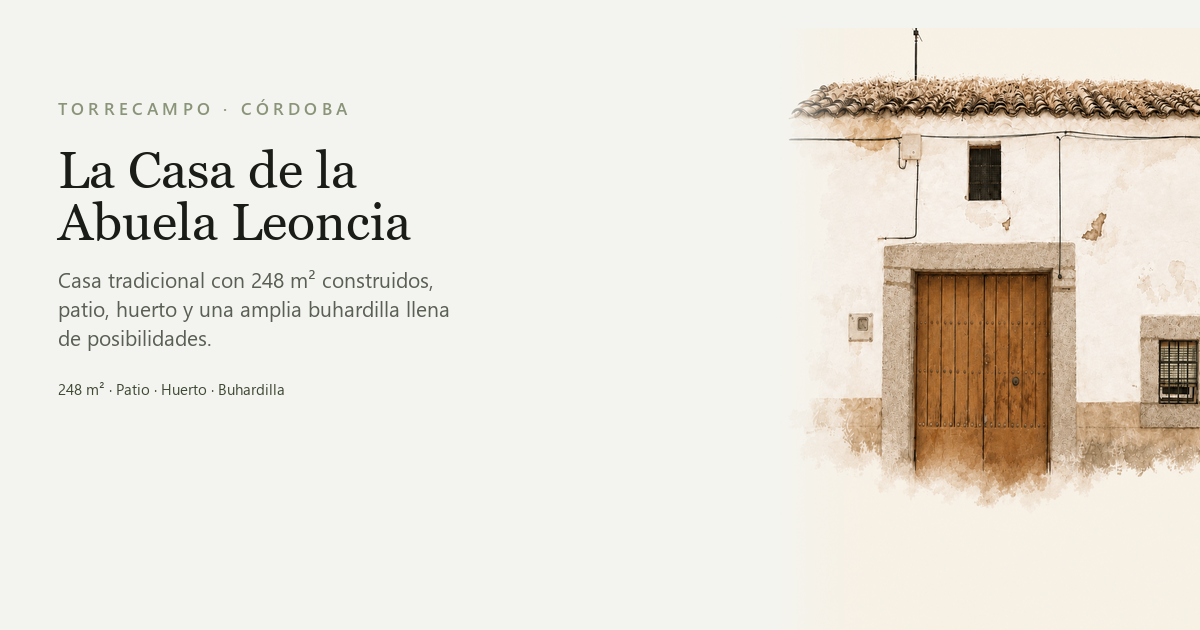
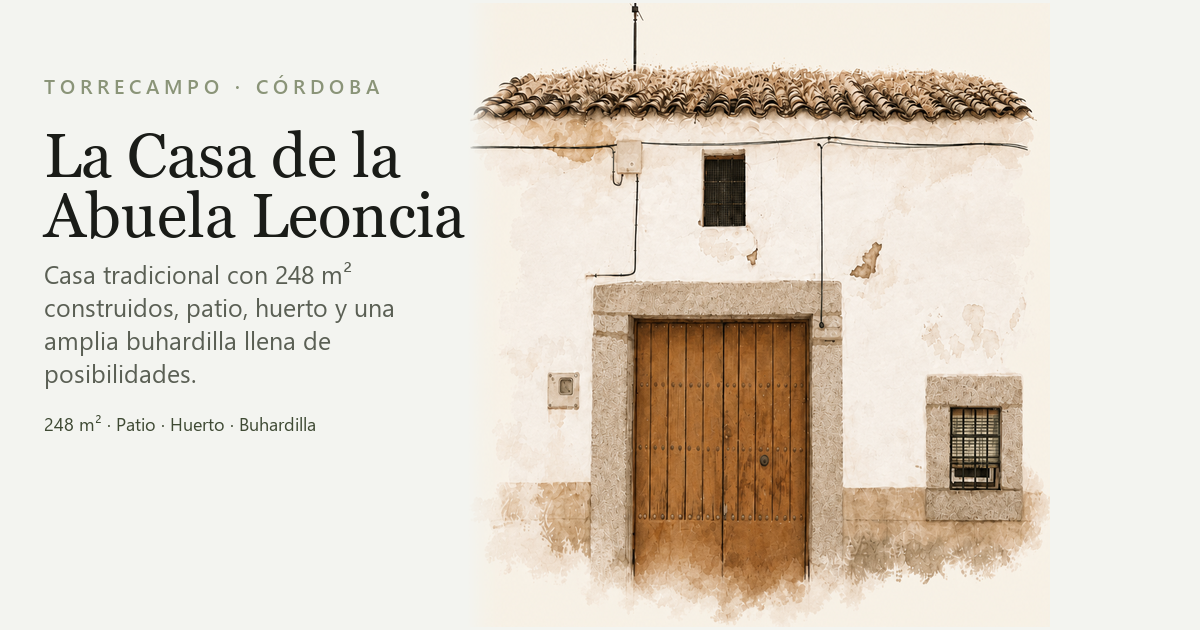
cabmios fotos

diff --git a/styles.css b/styles.css
@@ -151,6 +151,37 @@ button,
   background: #f3efe6;
 }
 
+/* Hero móvil: un poco más bajo para anticipar la siguiente sección */
+@media (max-width: 819px) {
+  .hero {
+    min-height: 87svh;
+  }
+
+  .hero__media img {
+    object-position: center 34%;
+  }
+
+  .hero__content {
+    padding-bottom: 2.75rem;
+  }
+
+  .hero__place {
+    margin-bottom: 0.85rem;
+  }
+
+  .hero__lead {
+    margin-bottom: 0.7rem;
+  }
+
+  .hero__meta {
+    margin-bottom: 1.2rem;
+  }
+
+  .hero__scroll {
+    bottom: 1.15rem;
+  }
+}
+
 .hero__media {
   position: absolute;
   inset: 0;
@@ -622,6 +653,25 @@ button,
 }
 
 @media (max-width: 899px) {
+  .possibilities {
+    display: flex;
+    flex-direction: column;
+    gap: 1.75rem;
+  }
+
+  .possibilities > .reveal {
+    display: contents;
+  }
+
+  .plan-visual {
+    order: 1;
+  }
+
+  .plan-note {
+    order: 2;
+    margin-top: 0;
+  }
+
   .plan-diagram {
     max-width: 18rem;
   }
@@ -1274,6 +1324,107 @@ button,
 
 .tiempo--futuro .vision-thumbs {
   margin-bottom: 0.85rem;
+}
+
+/* Tres tiempos — móvil: reportaje continuo (desktop intacto) */
+@media (max-width: 899px) {
+  #la-casa.section {
+    padding-top: 3.5rem;
+    padding-bottom: 3.75rem;
+  }
+
+  #la-casa .film-intro {
+    margin-bottom: 1.65rem;
+  }
+
+  #la-casa .tiempos {
+    gap: 2.15rem;
+  }
+
+  #la-casa .tiempos__duo--now {
+    gap: 2.15rem;
+  }
+
+  #la-casa .tiempo__head,
+  #la-casa .tiempo--es .tiempo__head,
+  #la-casa .tiempo--futuro .tiempo__head {
+    margin-bottom: 0.95rem;
+  }
+
+  /* Misma franja visual para carrusel, vídeos y galería */
+  #la-casa .carousel,
+  #la-casa .tiempo__videos,
+  #la-casa .vision-thumbs {
+    width: calc(100% + 2.8rem);
+    max-width: none;
+    margin-left: -1.4rem;
+    margin-right: -1.4rem;
+  }
+
+  #la-casa .carousel__viewport {
+    background: transparent;
+    border: 0;
+    border-block: 1px solid var(--line);
+  }
+
+  #la-casa .carousel__track {
+    min-height: min(46vh, 400px);
+  }
+
+  #la-casa .carousel__slide {
+    padding: 0.55rem 0.55rem 1.7rem;
+  }
+
+  #la-casa .carousel__slide img {
+    max-height: min(42vh, 380px);
+    box-shadow: none;
+  }
+
+  #la-casa .carousel__cap {
+    left: 1.15rem;
+  }
+
+  #la-casa .carousel__controls {
+    margin-top: 0.7rem;
+    padding-inline: 1.4rem;
+  }
+
+  #la-casa .tiempo--es .tiempo__videos {
+    gap: 0.28rem;
+  }
+
+  #la-casa .tiempo--es .tiempo__player {
+    max-height: min(36vh, 300px);
+  }
+
+  #la-casa .tiempo__video figcaption {
+    margin-top: 0.4rem;
+    padding-inline: 0.85rem;
+  }
+
+  #la-casa .vision-thumbs {
+    grid-template-columns: repeat(2, 1fr);
+    gap: 0.2rem;
+  }
+
+  #la-casa .tiempo--futuro .vision-thumbs {
+    margin-bottom: 1rem;
+  }
+
+  #la-casa .vision-thumb {
+    border: 0;
+    background: var(--mist);
+  }
+
+  #la-casa .vision-thumb:hover,
+  #la-casa .vision-thumb:focus-visible {
+    transform: none;
+    box-shadow: none;
+  }
+
+  #la-casa .vision-chips {
+    gap: 0.4rem;
+  }
 }
 
 .vision-chips {

diff --git a/index.html b/index.html
@@ -128,39 +128,30 @@
                 <ul class="carousel__track">
                   <li class="carousel__slide is-active">
                     <img src="images/antes-fachada.jpg" alt="Fachada de la casa con puerta número 9" width="1200" height="800" />
-                    <span class="carousel__cap">Fachada</span>
                   </li>
                   <li class="carousel__slide">
                     <img src="images/antes-cocina-vigas.jpg" alt="Cocina con vigas de madera" width="1200" height="800" loading="lazy" />
-                    <span class="carousel__cap">Cocina</span>
                   </li>
                   <li class="carousel__slide">
                     <img src="images/antes-cocina.jpg" alt="Cocina con suelo de terrazo y luz natural" width="1000" height="1000" loading="lazy" />
-                    <span class="carousel__cap">La cocina con luz</span>
                   </li>
                   <li class="carousel__slide">
                     <img src="images/antes-huerto.jpg" alt="Huerto con higuera y puerta al patio" width="800" height="1200" loading="lazy" />
-                    <span class="carousel__cap">Huerto e higuera</span>
                   </li>
                   <li class="carousel__slide">
                     <img src="images/antes-zaguan-suelo.jpg" alt="Entrada con suelo de canto rodado" width="1200" height="800" loading="lazy" />
-                    <span class="carousel__cap">Entrada</span>
                   </li>
                   <li class="carousel__slide">
                     <img src="images/antes-escalera.jpg" alt="Escalera encalada hacia la planta alta" width="800" height="1200" loading="lazy" />
-                    <span class="carousel__cap">Escalera</span>
                   </li>
                   <li class="carousel__slide">
                     <img src="images/antes-umbral.jpg" alt="Umbral entre suelos de canto y baldosa" width="800" height="1200" loading="lazy" />
-                    <span class="carousel__cap">Umbral</span>
                   </li>
                   <li class="carousel__slide">
                     <img src="images/antes-hornacina.jpg" alt="Hornacina con botellas de cristal" width="800" height="1200" loading="lazy" />
-                    <span class="carousel__cap">Hornacina</span>
                   </li>
                   <li class="carousel__slide">
                     <img src="images/antes-despensa.jpg" alt="Rincón de despensa con puchero de barro" width="800" height="1200" loading="lazy" />
-                    <span class="carousel__cap">Despensa</span>
                   </li>
                 </ul>
               </div>
@@ -373,13 +364,13 @@
           <div class="carousel__viewport">
             <ul class="carousel__track">
               <li class="carousel__slide is-active">
-                <img src="images/pueblo-calle.jpg" alt="Calle de Torrecampo al atardecer" width="800" height="1200" />
+                <img src="images/pueblo-fiesta.jpg" alt="Espigas al atardecer" width="1200" height="800" />
+              </li>
+              <li class="carousel__slide">
+                <img src="images/pueblo-calle.jpg" alt="Calle de Torrecampo al atardecer" width="800" height="1200" loading="lazy" />
               </li>
               <li class="carousel__slide">
                 <img src="images/pueblo-ciguena.jpg" alt="Nido de cigüeña al amanecer" width="800" height="1200" loading="lazy" />
-              </li>
-              <li class="carousel__slide">
-                <img src="images/pueblo-fiesta.jpg" alt="Romería o fiesta en Torrecampo" width="800" height="1200" loading="lazy" />
               </li>
               <li class="carousel__slide">
                 <img src="images/pueblo-atardecer.jpg" alt="Campo dorado al atardecer" width="800" height="1200" loading="lazy" />
@@ -394,10 +385,7 @@
                 <img src="images/pueblo-ovejas.jpg" alt="Rebaño de ovejas en el camino" width="800" height="1200" loading="lazy" />
               </li>
               <li class="carousel__slide">
-                <img src="images/pueblo-migas.jpg" alt="Migas cocinándose al fuego" width="800" height="1200" loading="lazy" />
-              </li>
-              <li class="carousel__slide">
-                <img src="images/pueblo-avena.jpg" alt="Espigas al atardecer" width="1200" height="800" loading="lazy" />
+                <img src="images/pueblo-avena.jpg" alt="Espigas al viento" width="1200" height="800" loading="lazy" />
               </li>
               <li class="carousel__slide">
                 <img src="images/pueblo-ermita-silueta.jpg" alt="Ermita en silueta al anochecer" width="1200" height="800" loading="lazy" />

diff --git a/scripts/generate-og.py b/scripts/generate-og.py
@@ -42,64 +42,92 @@ def wrap_text(draw: ImageDraw.ImageDraw, text: str, font: ImageFont.ImageFont, m
     return lines
 
 
+def crop_cream_margins(im: Image.Image, threshold: int = 38) -> Image.Image:
+    """Recorta márgenes crema sin tocar la fachada."""
+    rgb = im.convert("RGB")
+    w, h = rgb.size
+    pix = rgb.load()
+    xs: list[int] = []
+    ys: list[int] = []
+    for y in range(h):
+        for x in range(w):
+            r, g, b = pix[x, y]
+            if abs(r - 243) + abs(g - 244) + abs(b - 240) > threshold:
+                xs.append(x)
+                ys.append(y)
+    if not xs:
+        return im
+    pad = 4
+    left = max(0, min(xs) - pad)
+    top = max(0, min(ys) - pad)
+    right = min(w, max(xs) + pad)
+    bottom = min(h, max(ys) + pad)
+    return im.crop((left, top, right, bottom))
+
+
 def main() -> None:
     canvas = Image.new("RGB", (W, H), PAPER)
     draw = ImageDraw.Draw(canvas)
 
-    # --- Texto (columna izquierda ~40%) ---
-    left = 58
-    text_max = 420
-    y = 96
+    # Texto ~+20% respecto a la versión anterior
+    left = 44
+    text_max = 390
+    y = 72
 
-    kicker_font = load_font(FONT_SANS_SB, 17)
+    kicker_font = load_font(FONT_SANS_SB, 20)
     kicker = "TORRECAMPO · CÓRDOBA"
-    spacing = 4.2
+    spacing = 5.0
     x = left
     for ch in kicker:
         draw.text((x, y), ch, font=kicker_font, fill=SAGE)
         x += draw.textlength(ch, font=kicker_font) + spacing
-    y += 44
+    y += 48
 
-    title_font = load_font(FONT_SERIF, 52)
-    title_lines = ["La Casa de la", "Abuela Leoncia"]
-    for line in title_lines:
+    title_font = load_font(FONT_SERIF, 62)
+    for line in ("La Casa de la", "Abuela Leoncia"):
         draw.text((left, y), line, font=title_font, fill=INK)
         bbox = draw.textbbox((left, y), line, font=title_font)
-        y = bbox[3] + 4
-    y += 20
+        y = bbox[3] + 2
+    y += 16
 
-    body_font = load_font(FONT_SANS, 21)
+    body_font = load_font(FONT_SANS, 25)
     body = (
         "Casa tradicional con 248 m² construidos, patio, huerto "
         "y una amplia buhardilla llena de posibilidades."
     )
     for line in wrap_text(draw, body, body_font, text_max):
         draw.text((left, y), line, font=body_font, fill=MUTED)
-        y += 29
-    y += 26
+        y += 33
+    y += 22
 
-    meta_font = load_font(FONT_SANS, 15)
-    meta = "248 m² · Patio · Huerto · Buhardilla"
-    draw.text((left, y), meta, font=meta_font, fill=OLIVE)
+    meta_font = load_font(FONT_SANS, 18)
+    draw.text((left, y), "248 m² · Patio · Huerto · Buhardilla", font=meta_font, fill=OLIVE)
 
-    # --- Ilustración (~58% derecho, bien grande) ---
-    hero = Image.open(HERO).convert("RGBA")
-    target_h = H - 24
-    scale = target_h / hero.height
+    # Ilustración más grande (~+35% de presencia), fachada completa
+    hero = crop_cream_margins(Image.open(HERO).convert("RGBA"))
+    max_h = H - 6
+    max_w = int(W * 0.66)
+    scale = min(max_h / hero.height, max_w / hero.width)
     new_w = int(hero.width * scale)
     new_h = int(hero.height * scale)
     hero = hero.resize((new_w, new_h), Image.Resampling.LANCZOS)
 
-    paste_x = W - new_w + 36
-    paste_y = H - new_h + 4
+    text_right = left + text_max
+    desired_gap = 32
+    paste_x = min(W - new_w - 4, max(text_right + desired_gap, W - new_w - 4))
+    # Cerrar hueco: preferir acercar al texto si cabe entera
+    paste_x = text_right + desired_gap
+    if paste_x + new_w > W - 2:
+        paste_x = W - new_w - 2
+    paste_y = (H - new_h) // 2
 
-    fade_w = 110
+    fade_w = 44
     fade = Image.new("L", (new_w, new_h), 255)
     fade_draw = ImageDraw.Draw(fade)
     for i in range(fade_w):
         alpha = int(255 * (i / fade_w))
         fade_draw.line([(i, 0), (i, new_h)], fill=alpha)
-    r, g, b, a = hero.split()
+    _r, _g, _b, a = hero.split()
     hero.putalpha(Image.composite(a, fade, fade))
 
     canvas_rgba = canvas.convert("RGBA")
@@ -108,7 +136,10 @@ def main() -> None:
 
     OUT.parent.mkdir(parents=True, exist_ok=True)
     result.save(OUT, "PNG", optimize=True)
-    print(f"Guardado {OUT} ({result.size[0]}x{result.size[1]}, {OUT.stat().st_size} bytes)")
+    print(
+        f"Guardado {OUT} ({result.size[0]}x{result.size[1]}, "
+        f"ilustración {new_w}x{new_h} @x={paste_x}, {OUT.stat().st_size} bytes)"
+    )
 
 
 if __name__ == "__main__":